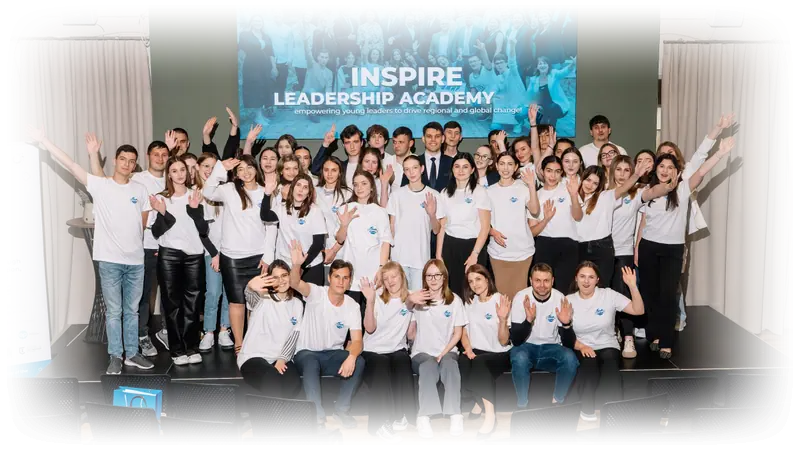
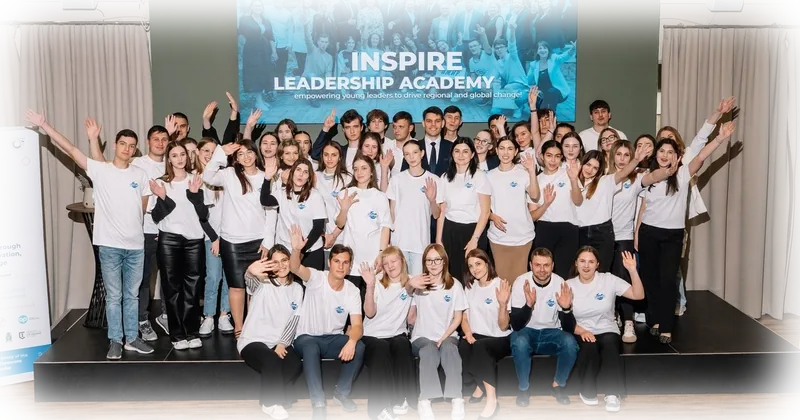
76

diff --git a/resources/views/public/home.blade.php b/resources/views/public/home.blade.php
@@ -48,7 +48,7 @@
             <span class="pic-spot pic-orange" style="--c:#ff6c0b;width:38%;aspect-ratio:1;right:-4%;top:-12%"></span>
             <span class="pic-spot pic-purple" style="--c:#72299c;width:30%;aspect-ratio:1;left:-10%;top:24%"></span>
             <span class="pic-spot pic-green" style="--c:#3d932e;width:34%;aspect-ratio:1;right:8%;bottom:-14%"></span>
-            <img src="{{ $img('hero/group-soft.webp') }}" srcset="{{ $img('hero/group-soft-800.webp') }} 800w, {{ $img('hero/group-soft.webp') }} 1400w" sizes="(min-width:1024px) 62vw, 100vw" alt="INSPIRE Leadership Academy 2025 participants" width="1400" height="787" fetchpriority="high" decoding="async">
+            <img src="{{ $img('hero/group-soft.webp') }}" srcset="{{ $img('hero/group-soft-800.webp') }} 800w, {{ $img('hero/group-soft.webp') }} 1400w" sizes="(min-width:1024px) 62vw, 100vw" alt="INSPIRE Leadership Academy 2025 participants" width="1400" height="735" fetchpriority="high" decoding="async">
         </div>
     </div>
 </section>
